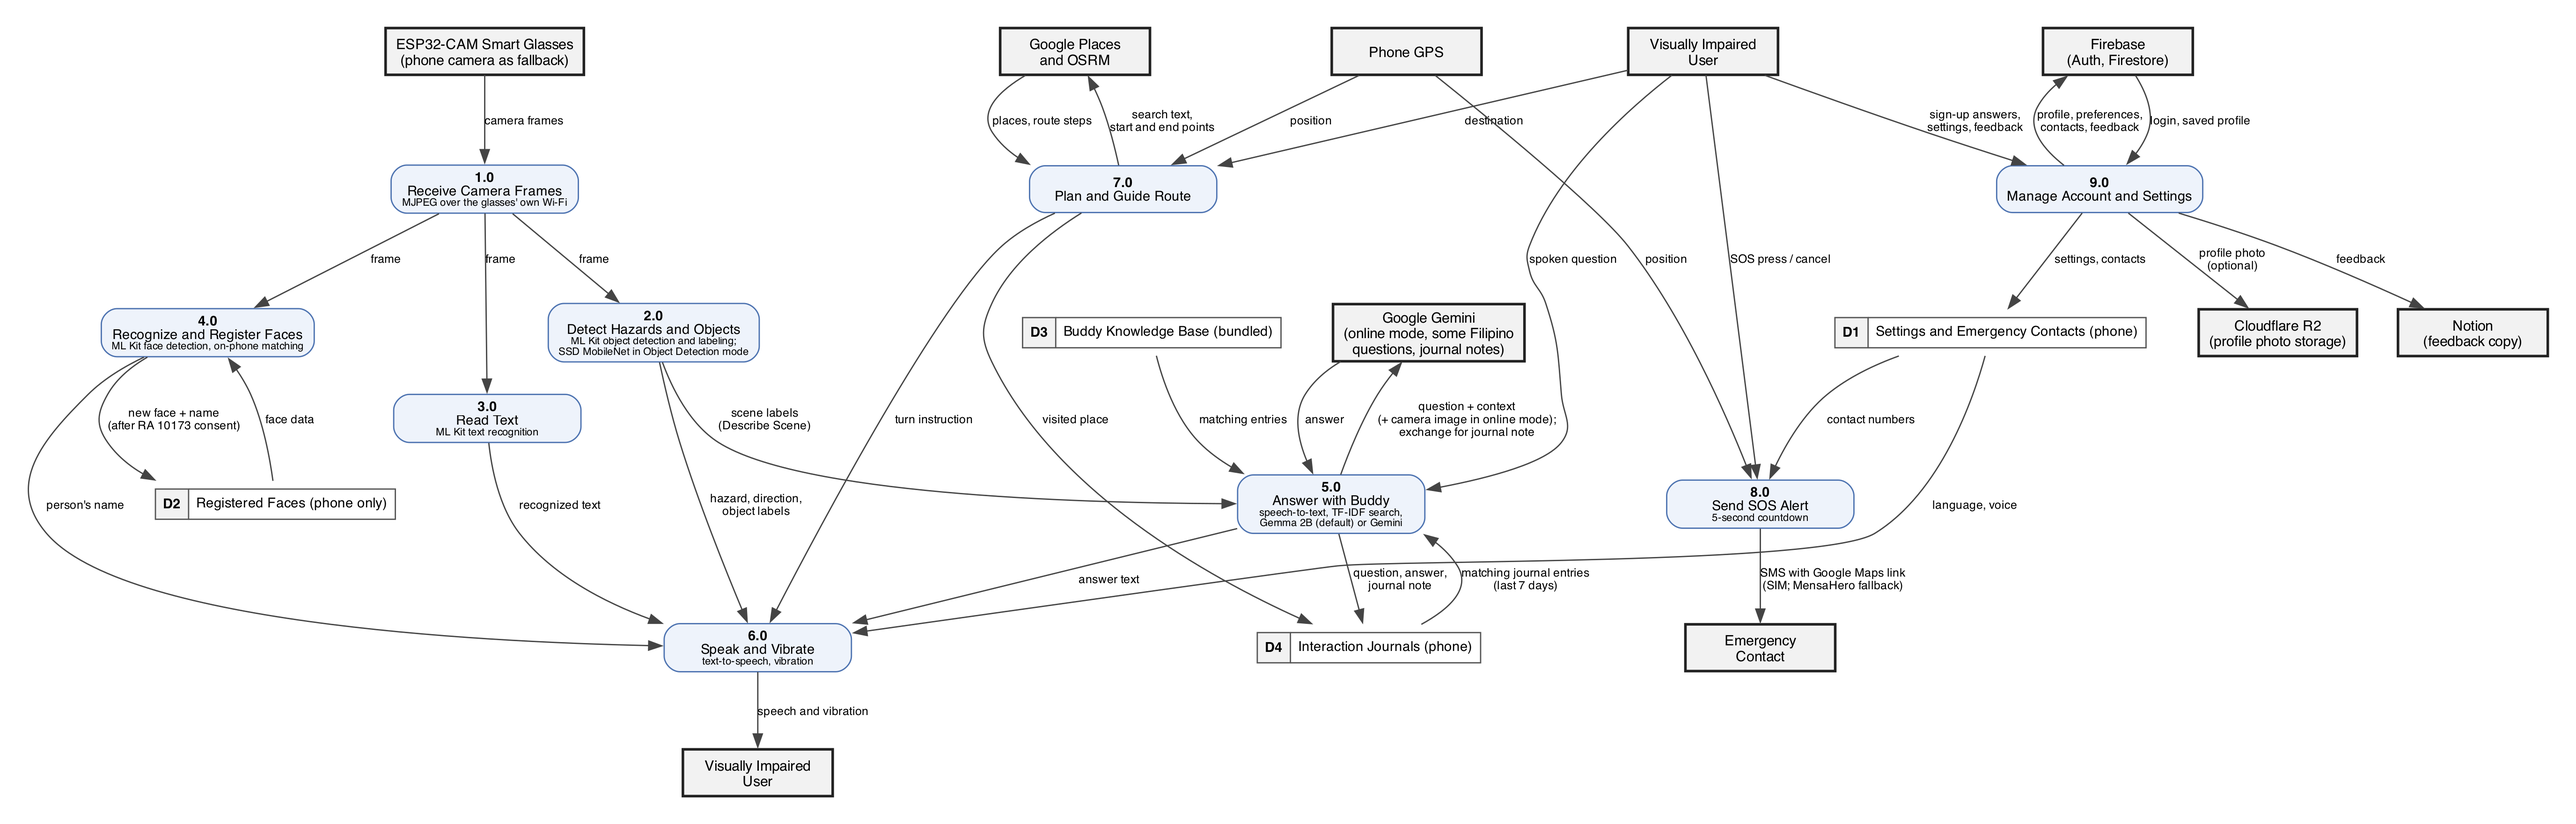
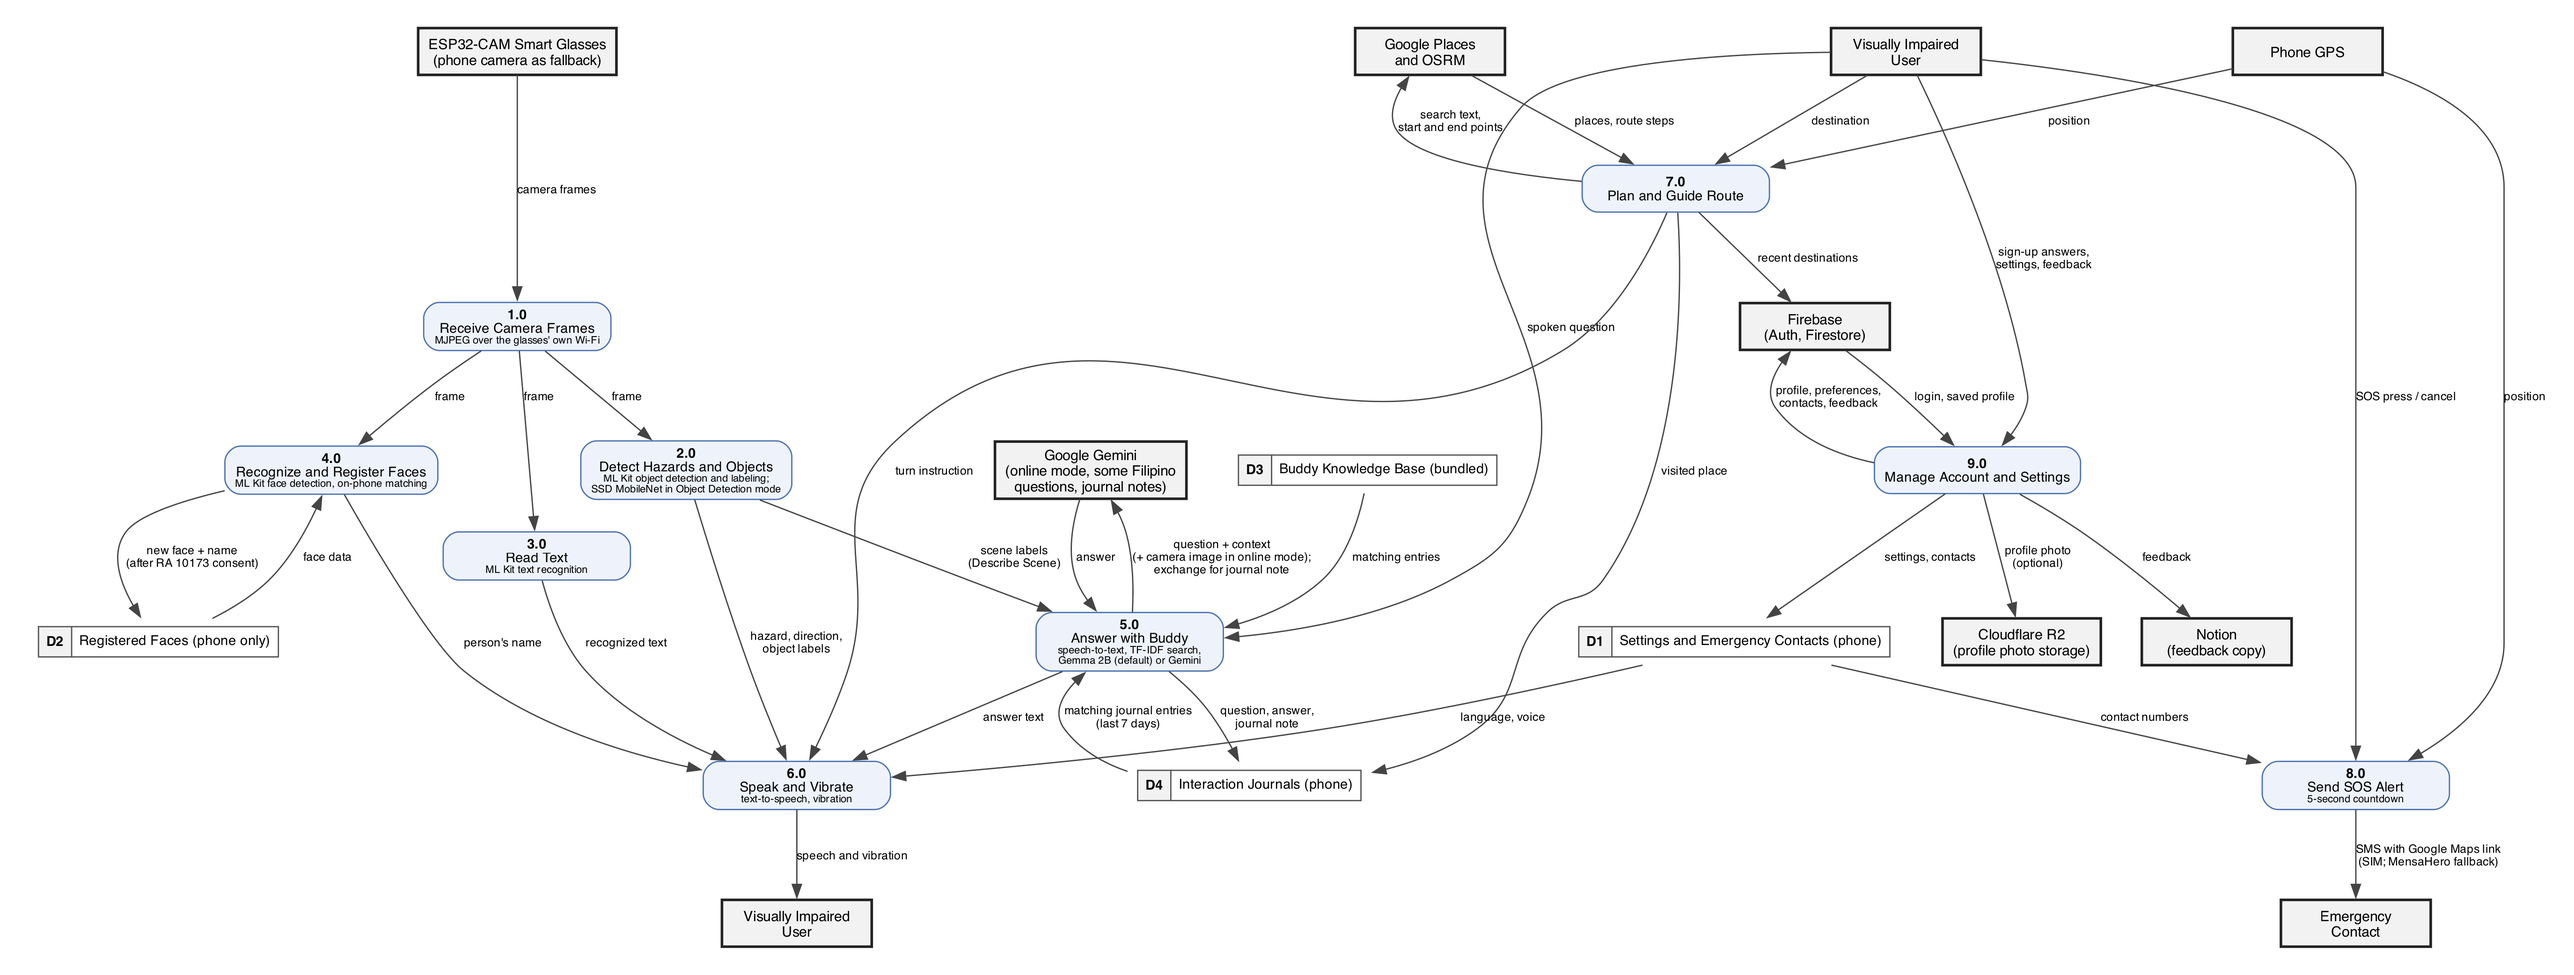
docs(figures): show recent destinations sent to Firebase in E.2

diff --git a/docs/figures/09_appendix_e_data_flow_diagrams.md b/docs/figures/09_appendix_e_data_flow_diagrams.md
@@ -61,7 +61,7 @@ digraph E1 {
 Figure E.2
 Proposed EasyLens Wearable Edge-AI System Detailed Data Flow Diagram
 
-Note. Figure E.2 shows how data moves through EasyLens. Camera frames from the smart glasses reach the phone over the glasses' own Wi-Fi and are processed on the phone by Google ML Kit and an SSD MobileNet model. Results are spoken and signaled by vibration. Buddy answers questions with Gemma 2B on the phone by default, or with Google Gemini when the user chooses online mode; some Filipino questions are also sent to Gemini, and each exchange is sent to Gemini to write a short journal note when the phone is online. Buddy's conversations and notes are kept as daily journal files on the phone (D4), and the last seven days are searched together with the knowledge base. Settings, emergency contacts and registered faces are stored on the phone; registered faces are never uploaded. Account data, preferences, emergency contacts and feedback are sent to Firebase, feedback is also copied to Notion, an optional profile photo is stored in Cloudflare R2, and route searches go to Google Places and OSRM. The Visually Impaired User entity appears twice to keep the diagram readable.
+Note. Figure E.2 shows how data moves through EasyLens. Camera frames from the smart glasses reach the phone over the glasses' own Wi-Fi and are processed on the phone by Google ML Kit and an SSD MobileNet model. Results are spoken and signaled by vibration. Buddy answers questions with Gemma 2B on the phone by default, or with Google Gemini when the user chooses online mode; some Filipino questions are also sent to Gemini, and each exchange is sent to Gemini to write a short journal note when the phone is online. Buddy's conversations and notes are kept as daily journal files on the phone (D4), and the last seven days are searched together with the knowledge base. Settings, emergency contacts and registered faces are stored on the phone; registered faces are never uploaded. Account data, preferences, emergency contacts, recent destinations and feedback are sent to Firebase, feedback is also copied to Notion, an optional profile photo is stored in Cloudflare R2, and route searches go to Google Places and OSRM. The Visually Impaired User entity appears twice to keep the diagram readable.
 ```
 
 ### Source (Graphviz)
@@ -125,6 +125,7 @@ digraph E2 {
   P5 -> D4 [label="question, answer,\njournal note"];
   D4 -> P5 [label="matching journal entries\n(last 7 days)"];
   P7 -> D4 [label="visited place"];
+  P7 -> Firebase [label="recent destinations"];
 
   // Navigation
   User -> P7 [label="destination"];
